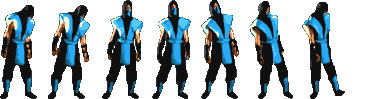
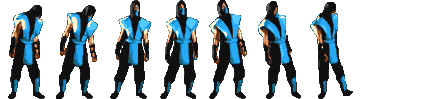
defeat animation completed

diff --git a/subzero_animations_settings.py b/subzero_animations_settings.py
@@ -9,13 +9,13 @@ subzero_move_animations = {'stand': [12, [51] * 12, [1] * 12, [0, 11], True, Fal
                            'walk_b': [9, [52] * 9, [1] * 9, [0, 8], True, False],
                            'jump': [3, [50] * 3, [3, 3, 5], [0, 2], False, False],
                            'move_jump': [8, [49] * 8, [1] * 8, [1, 7], False, False],
-                           'duck': [3, [52] * 5, [1] * 5, [2, 2], False, False],
+                           'duck': [3, [52] * 3, [1] * 5, [2, 2], False, False],
                            'block': [1, [50], [1], [0, 0], False, False],
                            'high_punch': [3, [60, 60, 71], [1, 1, 5], [], False, [2, 'weak_hit', 30, [4, 0]]],
                            'low_punch': [2, [60, 70], [1, 5], [], False, [1, 'weak_hit', 30, [4, 0]]],
                            'high_kick': [6, [55, 56, 45, 65, 88, 64], [1, 1, 1, 1, 3, 1], [], False, [4, 'weak_hit', 50, [6, 0]]],
                            'low_kick': [6, [55, 56, 45, 63, 92, 64], [1, 1, 1, 1, 3, 1], [], False, [4, 'weak_hit', 50, [6, 0]]],
                            'weak_hit': [3, [56, 59, 60], [1] * 3, [], False, False],
-                           'dead': [7, [50] * 7, [1] * 7, [0, 6], False, False]}
+                           'dead': [7, [49, 54, 50, 49, 56, 52, 52], [2] * 7, [0, 6], False, False]}
 
 subzero_attack_animations = ['low_punch', 'high_punch', 'low_kick', 'high_kick']

diff --git a/update_fighter_pos_x.py b/update_fighter_pos_x.py
@@ -3,8 +3,6 @@ from change_fighter_position import change_position
 
 
 def update_x(fighter, walls, enemy, f=False):
-    if not f:
-        print(fighter.pos_x)
     # UPDATE X
     fighter.pos_x += fighter.vector[0]
     change_position(fighter)
@@ -12,7 +10,6 @@ def update_x(fighter, walls, enemy, f=False):
     # WALL COLLISION
     if pygame.sprite.spritecollideany(fighter.collision_rect, walls) or \
             pygame.sprite.spritecollideany(enemy.collision_rect, walls):
-        print('wall')
         if fighter.side == 'left':
             shift = 1
         else:
@@ -24,7 +21,6 @@ def update_x(fighter, walls, enemy, f=False):
 
     # CHAR COLLISION
     if pygame.sprite.collide_rect(fighter.collision_rect, enemy.collision_rect):
-        print('char')
         if fighter.side == 'left':
             shift = -1
         else:
@@ -36,6 +32,3 @@ def update_x(fighter, walls, enemy, f=False):
         change_position(fighter)
         fighter.vector[0] = 0
 
-    if not f:
-        print(fighter.pos_x)
-        print('-----------------')

diff --git a/game_cycle.py b/game_cycle.py
@@ -90,7 +90,7 @@ def game_cycle(screen, char, enemy, camera, cf, gr, chb, ehb, all_sprites, groun
         # camera update
         for i in range(2):
             if char.cur_anim not in subzero_attack_animations and enemy.cur_anim not in subzero_attack_animations:
-                if char.side == 'left':
+                if char.side == 'right':
                     cf.update(char.pos_x + char.rect.width, enemy.pos_x)
                 else:
                     cf.update(char.pos_x, enemy.pos_x + enemy.rect.width)

diff --git a/set_char_anim.py b/set_char_anim.py
@@ -26,6 +26,10 @@ def set_char_anim(char, anim):
         char.frames += char.frames[0:1]
     if anim == 'walk_b':
         char.frames = char.frames[::-1]
+    if anim == 'dead':
+        #char.frames += char.frames[::-1]
+        print('-------------------------')
+        print(len(char.frames))
 
     if char.cur_anim != 'stand':
         if char.previos_moves and char.previos_moves[-1][0] == anim:

diff --git a/update_anim.py b/update_anim.py
@@ -2,6 +2,10 @@ def update_anim(fighter):
     if fighter.getting_damage:
         return
 
+    elif fighter.dead:
+        if fighter.cur_anim != 'dead':
+            fighter.set_anim('dead')
+
     elif fighter.attack:
         if fighter.attack == 'high_punch' and fighter.cur_anim != 'high_punch' and fighter.on_ground:
             fighter.set_anim('high_punch')

diff --git a/helth_bar.py b/helth_bar.py
@@ -13,6 +13,7 @@ class HelthBar(pygame.sprite.Sprite):
         helth_bar.fill(pygame.Color('#ff0000'))
         if self.is_dead():
             helth = pygame.Surface([0, 20])
+            self.fighter.dead = True
         else:
             helth = pygame.Surface([self.fighter.helth, 20])
         helth.fill(pygame.Color('#00cc00'))

diff --git a/camera_focus.py b/camera_focus.py
@@ -13,6 +13,7 @@ class CameraFocus(pygame.sprite.Sprite):
         self.walls = walls
 
     def update(self, p1_x, p2_x):
+        print(p2_x)
         t = self.rect.x
         self.rect.x = ((p1_x + p2_x) // 2)
         if pygame.sprite.spritecollideany(self, self.walls):

diff --git a/character.py b/character.py
@@ -31,6 +31,7 @@ class Character(pygame.sprite.Sprite):
         self.helth = 300
         self.damage = 0
         self.getting_damage = False
+        self.dead = False
 
         if side == 'left':
             self.pos_x = 100
